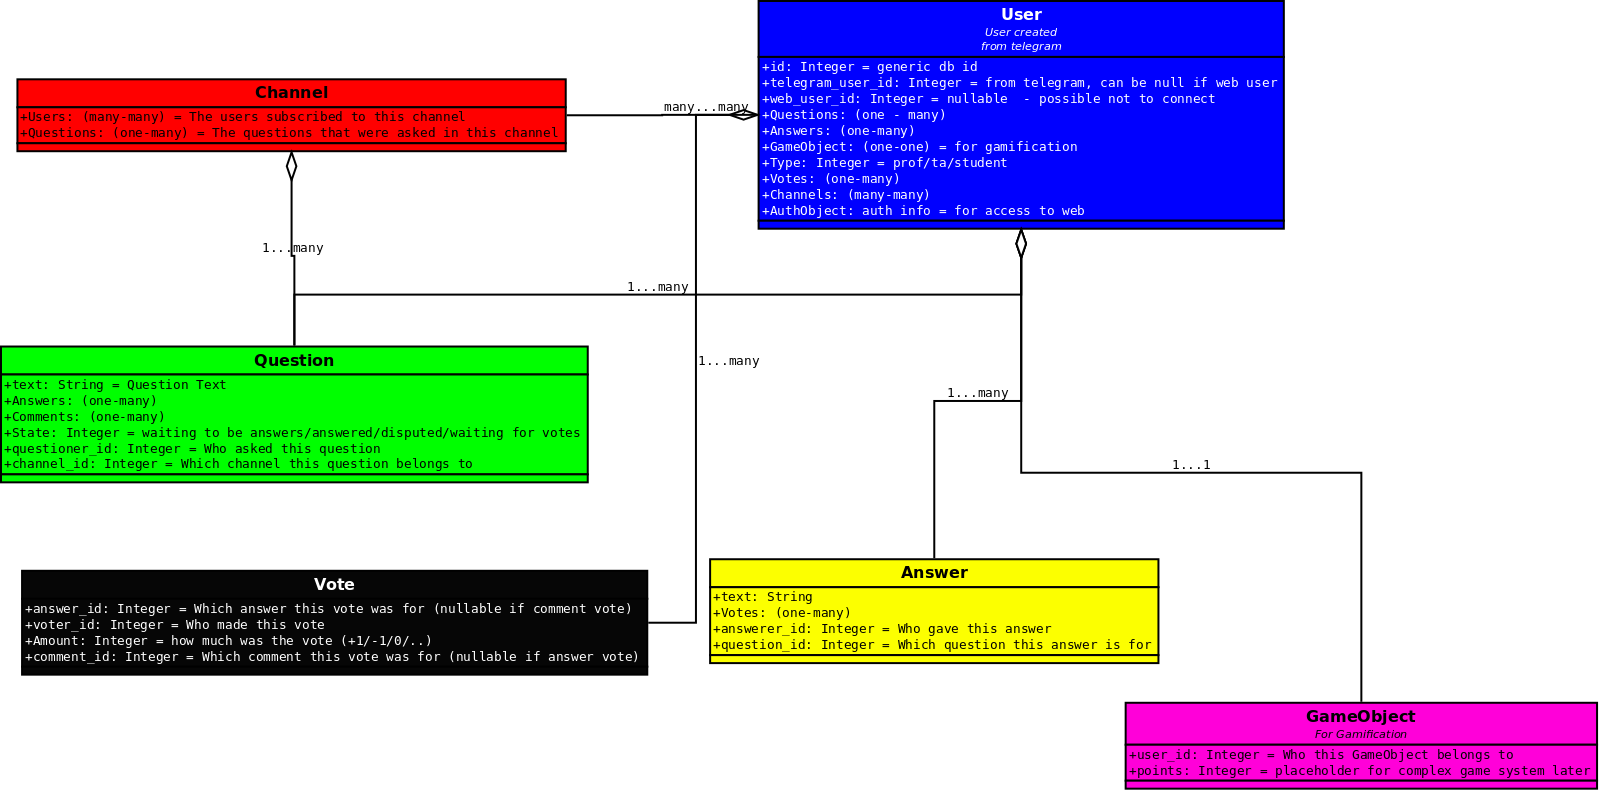
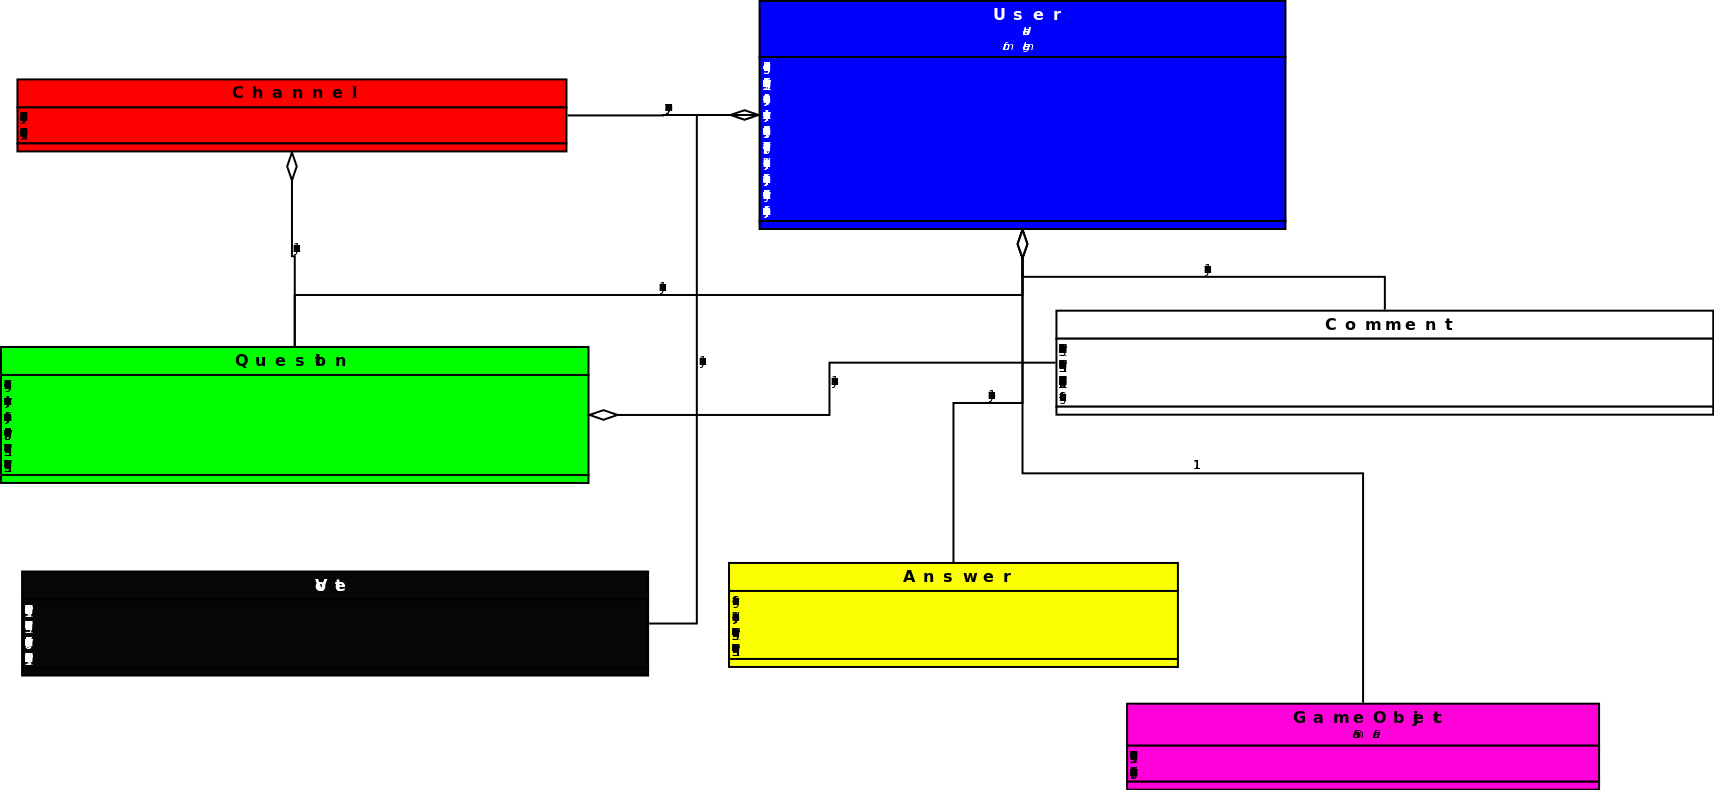
updated class diagram to add Comments, added Question and Answer models in the knowledgebase module

diff --git a/app/knowledgebase/models.py b/app/knowledgebase/models.py
@@ -1,0 +1,59 @@
+from app import db
+
+
+class Question(db.Model):
+    '''
+    Question model - stores a question, the person who wrote it,
+    and the channel it belongs to.
+    '''
+
+    ''' TABLE NAME '''
+
+    __tablename__ = 'questions'
+
+    ''' ATTRIBUTES '''
+
+    id = db.Column(db.Integer, primary_key=True)
+
+    # Not sure 5000 chars is enough for one question
+    text = db.Column(db.String(5000))
+
+    answers = db.relationship('Answer', backref='question', lazy='dynamic')
+
+    comments = db.relationship('Comment', backref='question', lazy='dynamic')
+
+    # integer representing what state the qn is in
+    #   - waiting for answers/waiting for votes/rejected/accepted
+    state = db.Column(db.Integer)
+
+    user_id = db.Column(db.Integer, db.ForeignKey('users.id'))
+
+    # channel_id = db.Column(db.Integer, db.ForeignKey('channels.id'))
+
+
+class Answer(db.Model):
+    '''
+    Answer model - stores an answer, the votes it has received, the person
+    who wrote it, and the question it is responding to.
+    '''
+
+    ''' TABLE NAME '''
+
+    __tablename__ = 'answers'
+
+    ''' ATTRIBUTES '''
+
+    id = db.Column(db.Integer, primary_key=True)
+
+    # Not sure 5000 chars is enough for one answer
+    text = db.Column(db.String(5000))
+
+    votes = db.relationship('Vote', backref='answer', lazy='dynamic')
+
+    user_id = db.Column(db.Integer, db.ForeignKey('users.id'))
+
+    question_id = db.Column(db.Integer, db.ForeignKey('questions.id'))
+    # channel_id = db.Column(db.Integer, db.ForeignKey('channels.id'))
+
+
+

diff --git a/app/accounts/models.py b/app/accounts/models.py
@@ -2,24 +2,36 @@ from app import db
 
 
 class User(db.Model):
+    '''
+    Refers to a complex user that could come from telegram or the web
+    interface or both together. Provides authentication for the web
+    and saving of points/questions/answers to the DB.
+    '''
+
+    ''' TABLE NAME '''
+
     __tablename__ = 'users'
+
+    ''' ATTRIBUTES '''
 
     id = db.Column(db.Integer, primary_key=True)
 
     telegram_user_id = db.Column(db.Integer)
 
-    # questions = db.relationship('Question', backref='user', lazy='dynamic')
+    questions = db.relationship('Question', backref='user', lazy='dynamic')
 
-    # answers = db.relationship('Answer', backref='user', lazy='dynamic')
+    answers = db.relationship('Answer', backref='user', lazy='dynamic')
 
-    # gameobject = db.relationship(
-    #    'Gameobjects', backref='user', lazy='dynamic', uselist=False)
+    gameobject = db.relationship(
+        'Gameobjects', backref='user', lazy='dynamic', uselist=False)
 
     user_type = db.Column(db.Integer)
 
-    # votes = db.relationship('Vote', backref='user', lazy='dynamic')
+    votes = db.relationship('Vote', backref='user', lazy='dynamic')
 
-    # channels
+    comments = db.relationship('Comment', backref='user', lazy='dynamic')
+
+    # channels - many-to-many
 
     def __init__(self, telegram_user_id, user_type):
         self.telegram_user_id = telegram_user_id

diff --git a/app/__init__.py b/app/__init__.py
@@ -32,7 +32,10 @@ bot = telepot.Bot(TOKEN)
 def handle(message):
     pprint(message)
 
-bot.message_loop(handle)
+print "========================="
+print "WARNING: MESSAGE LOOP OFF"
+print "========================="
+# bot.message_loop(handle)
 
 
 # Sample HTTP error handling
@@ -50,6 +53,7 @@ def not_found(error):
 
 # Before we create the database tables - import all models
 from accounts import User
+from knowledgebase import Question, Answer
 
 # Build the database:
 # This will create the database file using SQLAlchemy

diff --git a/app/knowledgebase/__init__.py b/app/knowledgebase/__init__.py
@@ -1,0 +1,1 @@
+from models import Question, Answer
